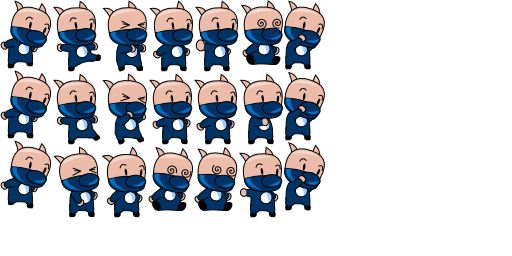
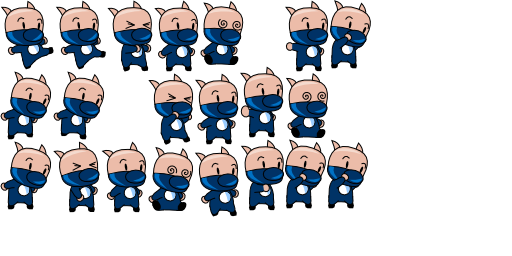
增加可選擇的英雄
[NEW] wilber, tux, pacman, kit
[MOD] 更新圖像

Changed region(s): [[0.0, 0.0, 0.75, 0.8438]]

diff --git a/Classes/Layer/HallLayer/HallStageLayer.cpp b/Classes/Layer/HallLayer/HallStageLayer.cpp
@@ -111,9 +111,33 @@ Hero::HeroType HallStageLayer::selectRole(Vec2 position) {
         return Hero::HeroType::KISI;
     } else if (
         this->isInRange(position,
-                        Vec2(gnu["x"].asFloat(), gnu["y"].asFloat()),
-                        Vec2(gnu["x"].asFloat() + size.width, gnu["y"].asFloat() + size.height))
+                        Vec2(kit["x"].asFloat(), kit["y"].asFloat()),
+                        Vec2(kit["x"].asFloat() + size.width, kit["y"].asFloat() + size.height))
     ) {
+        return Hero::HeroType::KIT;
+    } else if (
+               this->isInRange(position,
+                               Vec2(pacman["x"].asFloat(), pacman["y"].asFloat()),
+                               Vec2(pacman["x"].asFloat() + size.width, pacman["y"].asFloat() + size.height))
+               ) {
+        return Hero::HeroType::PACMAN;
+    } else if (
+               this->isInRange(position,
+                               Vec2(tux["x"].asFloat(), tux["y"].asFloat()),
+                               Vec2(tux["x"].asFloat() + size.width, tux["y"].asFloat() + size.height))
+               ) {
+        return Hero::HeroType::TUX;
+    } else if (
+               this->isInRange(position,
+                               Vec2(wilber["x"].asFloat(), wilber["y"].asFloat()),
+                               Vec2(wilber["x"].asFloat() + size.width, wilber["y"].asFloat() + size.height))
+               ) {
+        return Hero::HeroType::WILBER;
+    } else if (
+               this->isInRange(position,
+                               Vec2(gnu["x"].asFloat(), gnu["y"].asFloat()),
+                               Vec2(gnu["x"].asFloat() + size.width, gnu["y"].asFloat() + size.height))
+               ) {
         return Hero::HeroType::GNU;
     }
 

diff --git a/Classes/Entity/Role/Hero.cpp b/Classes/Entity/Role/Hero.cpp
@@ -12,6 +12,10 @@ Hero::Hero() {
 
     FRAMECACHE->addSpriteFramesWithFile("hero-kisi.plist", "hero-kisi.png");
     FRAMECACHE->addSpriteFramesWithFile("hero-gnu.plist", "hero-gnu.png");
+    FRAMECACHE->addSpriteFramesWithFile("hero-wilber.plist", "hero-wilber.png");
+    FRAMECACHE->addSpriteFramesWithFile("hero-tux.plist", "hero-tux.png");
+    FRAMECACHE->addSpriteFramesWithFile("hero-pacman.plist", "hero-pacman.png");
+    FRAMECACHE->addSpriteFramesWithFile("hero-kit.plist", "hero-kit.png");
     this->m_map = nullptr;
 }
 
@@ -28,6 +32,18 @@ bool Hero::initWithHeroType(HeroType type) {
             break;
         case HeroType::GNU:
             spName = "gnu";
+            break;
+        case HeroType::KIT:
+            spName = "kit";
+            break;
+        case HeroType::PACMAN:
+            spName = "pacman";
+            break;
+        case HeroType::TUX:
+            spName = "tux";
+            break;
+        case HeroType::WILBER:
+            spName = "wilber";
             break;
         default:
             break;

diff --git a/Classes/Entity/Role/Hero.h b/Classes/Entity/Role/Hero.h
@@ -9,6 +9,10 @@ public:
     enum HeroType {
         KISI,
         GNU,
+        WILBER,
+        TUX,
+        PACMAN,
+        KIT,
         NONE
     };
 
